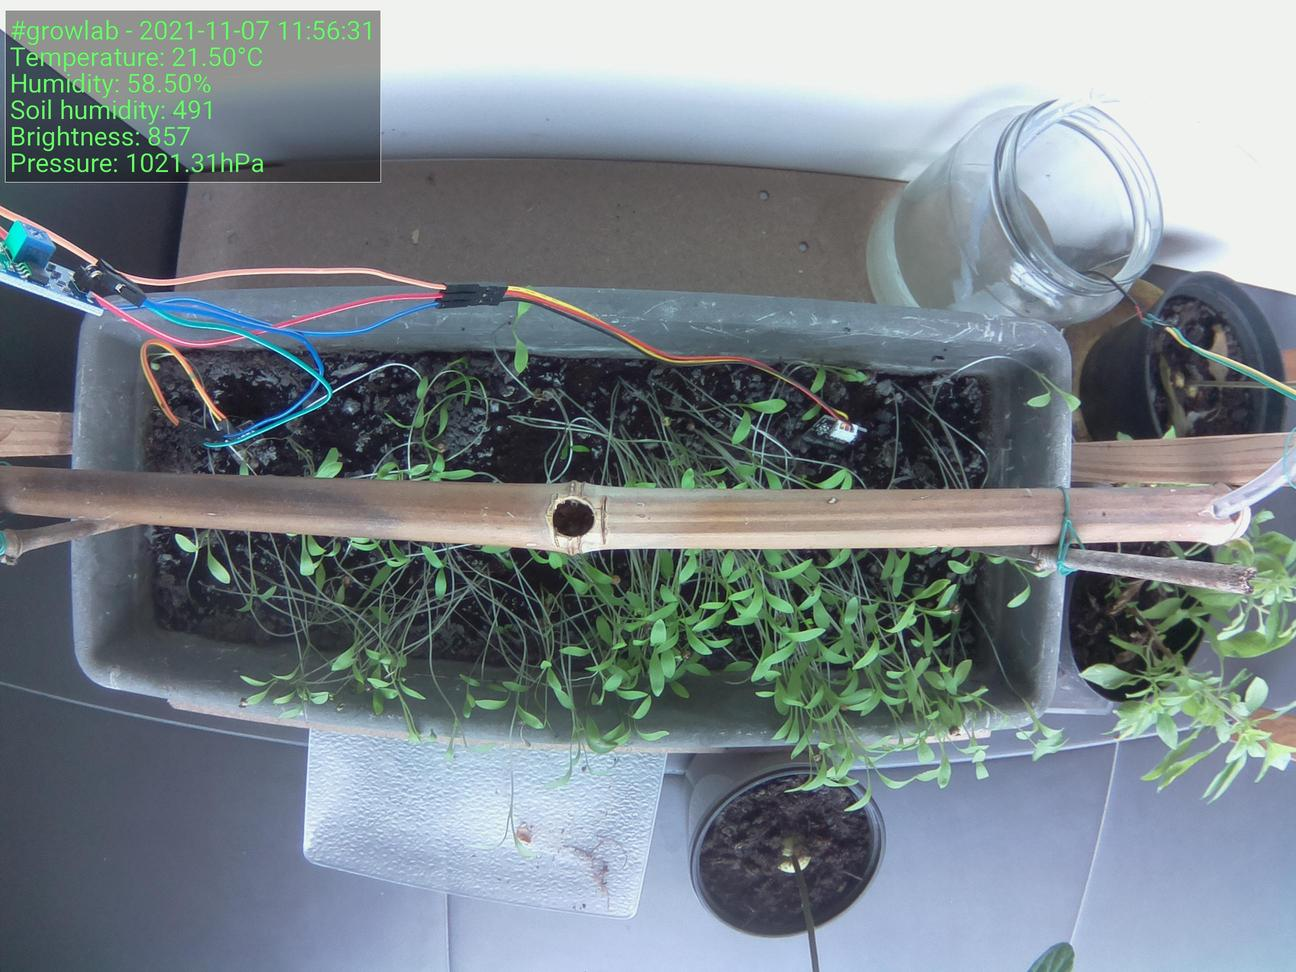
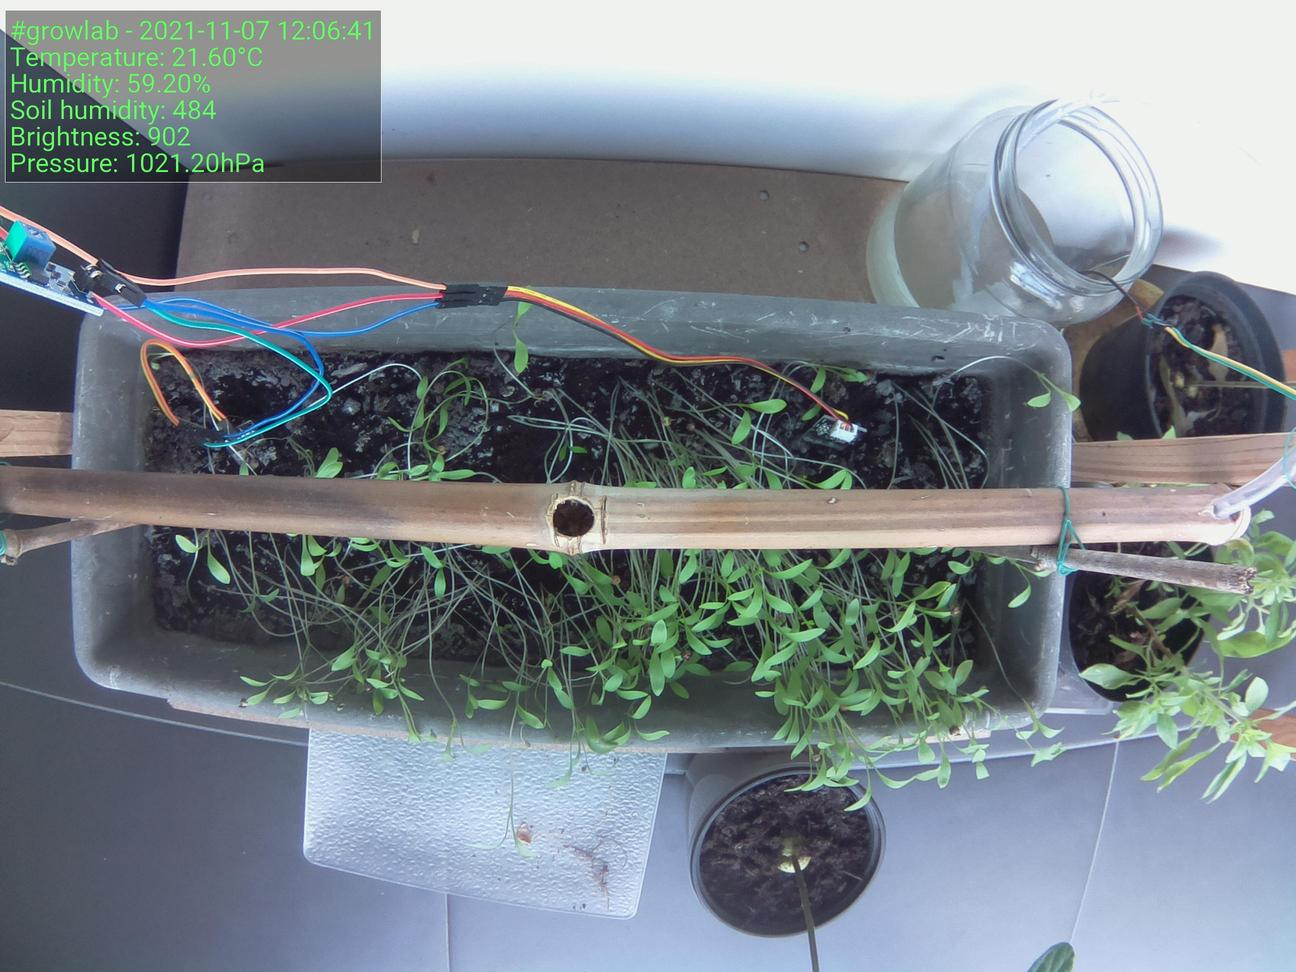
:bento: Update preview

diff --git a/index.html b/index.html
@@ -39,15 +39,15 @@
                     <tbody>
                         <tr>
                             <td>Time</td>
-                            <td>2021-11-07 11:56:31</td>
+                            <td>2021-11-07 12:06:41</td>
                         </tr>
                         <tr>
                             <td>Temperature</td>
-                            <td>21.50°C</td>
+                            <td>21.60°C</td>
                         </tr>
                         <tr>
                             <td>Humidity</td>
-                            <td>58.50%</td>
+                            <td>59.20%</td>
                         </tr>
                     </tbody>
                 </table>
@@ -55,7 +55,7 @@
 
                 <h5>Latest image</h5>
 		<div style="width: 85%;">
-	                <img class="figure-img img-fluid rounded" src="./preview.jpg?uid=1636282598.0380075">
+	                <img class="figure-img img-fluid rounded" src="./preview.jpg?uid=1636283208.7489095">
 		</div>
             </div>
         </div>
